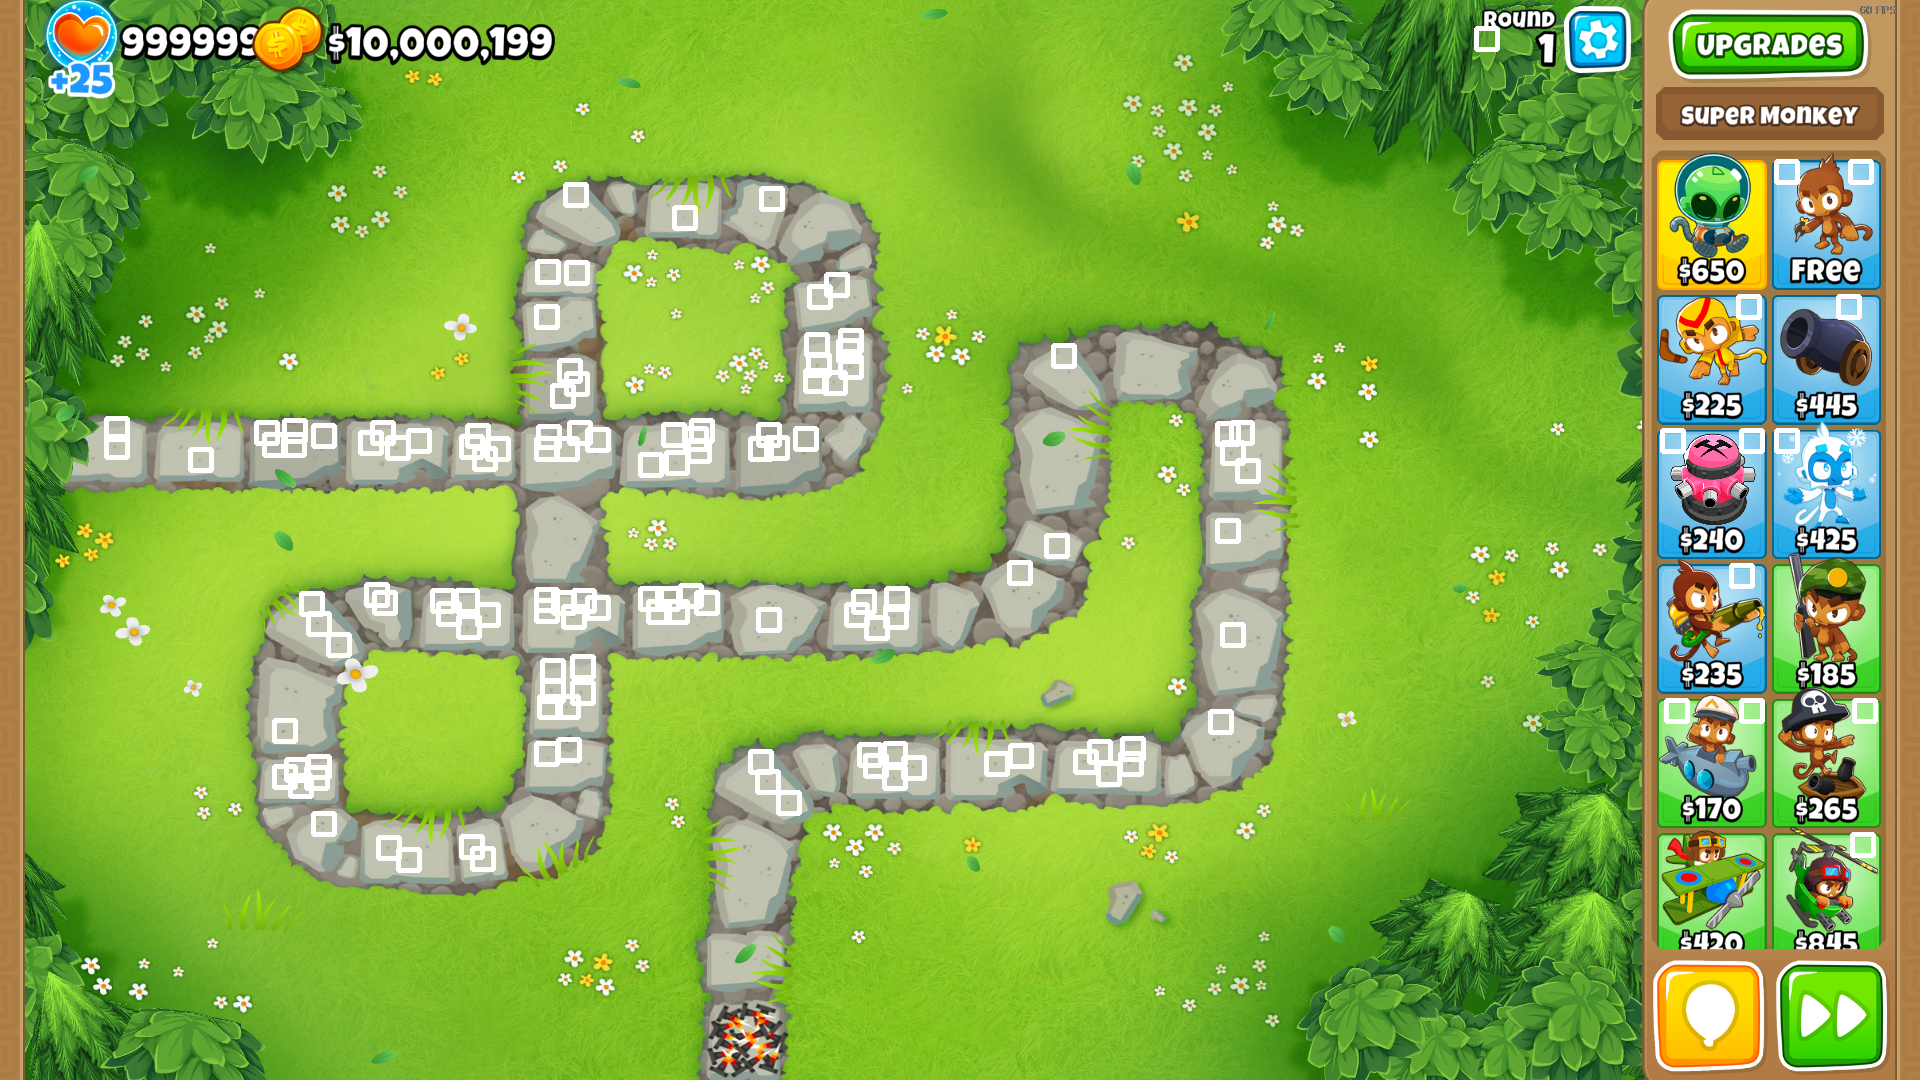
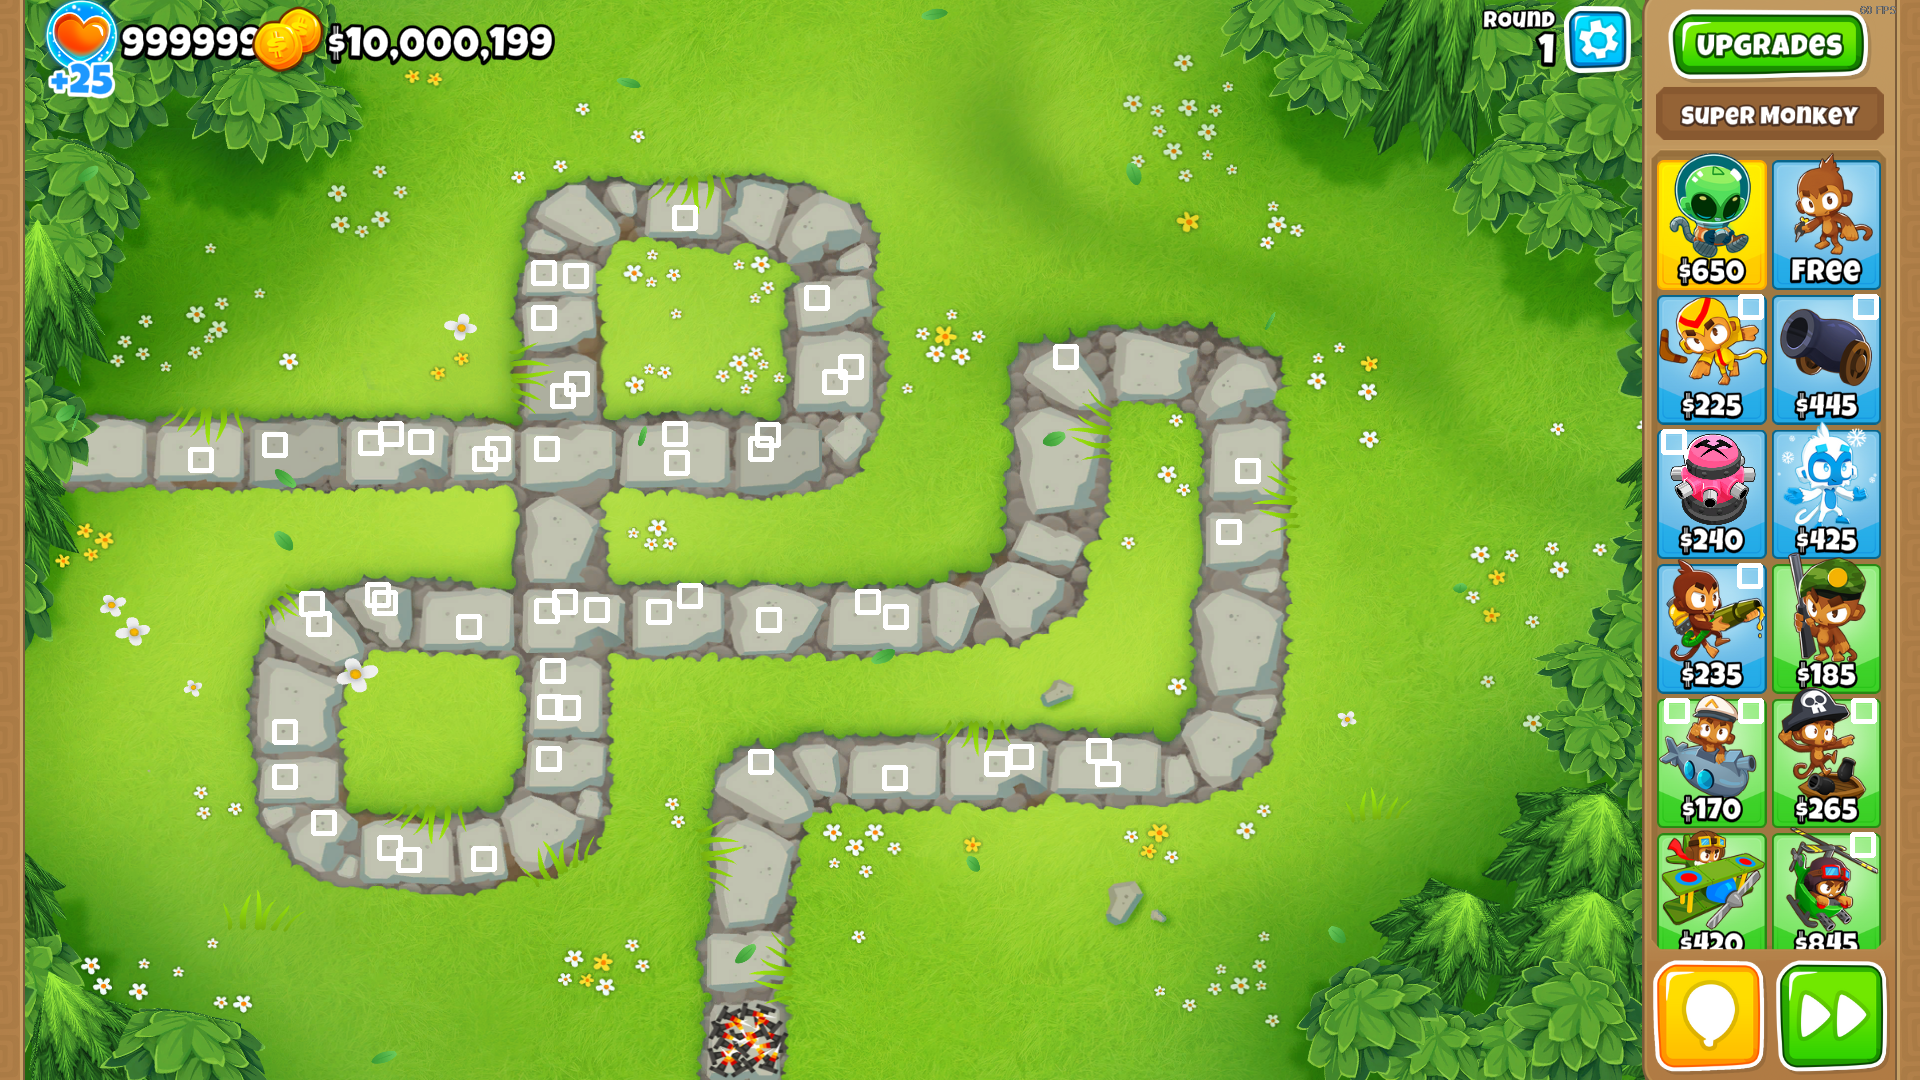
erosao

diff --git a/python/desenvolvimento tcc/imagePreProcessing.py b/python/desenvolvimento tcc/imagePreProcessing.py
@@ -1,0 +1,107 @@
+import cv2 as cv
+from matplotlib import pyplot as plt
+import numpy as np
+
+# img = cv.imread(
+#     './images/maps/beginner/map_monkey_meadow.png')
+
+img = cv.imread('./testImages/Screenshot_1.png')
+
+imgHSV = cv.cvtColor(img, cv.COLOR_BGR2HSV)
+
+H, S, V = cv.split(imgHSV)
+
+cv.imwrite('testImages/image.png', img)
+cv.imwrite("testImages/HSV_image.png", imgHSV)
+cv.imwrite("testImages/H_image.png", H)
+
+
+keys = plt.hist(H.ravel(), 180, [0, 180])[0]
+
+print(len(keys))
+min, max, minLoc, maxLoc = cv.minMaxLoc(keys)
+
+maxPositionArray = np.where(keys == max)
+maxPosition = maxPositionArray[0]
+print(maxPosition)
+
+
+# o que nao se encontra no range fica preto
+# o que está no range fica branco
+inRange = cv.inRange(H, maxPosition-4, maxPosition+4)
+
+cv.imwrite("testImages/in_range_image.png", inRange)
+
+inRangePath = cv.inRange(H, 30, 35)
+
+cv.imwrite("testImages/in_range_path_image.png", inRangePath)
+
+plt.hist(H.ravel(), 180, [0, 180])
+plt.title("histograma H")
+plt.savefig('hist.png')
+
+# testes com filtros da canny
+
+cv.imwrite("testImages/canny.png", cv.Canny(img, 70, 70))
+
+cv.imwrite("testImages/canny_in_range.png", cv.Canny(inRange, 70, 70))
+
+cv.imwrite("testImages/canny_path.png",
+           cv.Canny(cv.inRange(H, 30, 35), 70, 70))
+
+cv.imwrite("testImages/canny_H.png", cv.Canny(H, 70, 70))
+
+
+# testes cp, filtro de cartoon
+
+cv.imwrite("testImages/cartoon.png",
+           cv.edgePreservingFilter(img, flags=1, sigma_s=50, sigma_r=0.4))
+
+cv.imwrite("testImages/cartoon_in_range.png",
+           cv.edgePreservingFilter(inRange, flags=1, sigma_s=50, sigma_r=0.4))
+
+cv.imwrite("testImages/cartoon_path.png",
+           cv.edgePreservingFilter(cv.inRange(H, 30, 35), flags=1, sigma_s=20, sigma_r=0.9))
+
+cv.imwrite("testImages/cartoon_H.png",
+           cv.edgePreservingFilter(H, flags=1, sigma_s=50, sigma_r=0.4))
+
+
+element_str = cv.getStructuringElement(cv.MORPH_RECT, (7, 7))
+
+
+cv.imwrite("testImages/erode.png", cv.erode(img, element_str, iterations=2))
+
+cv.imwrite("testImages/erode_in_range.png",
+           cv.erode(inRange, element_str, iterations=2))
+
+cv.imwrite("testImages/erode_path.png",
+           cv.erode(cv.inRange(H, 30, 35), element_str, iterations=2))
+
+cv.imwrite("testImages/erode_H.png", cv.erode(H, element_str, iterations=2))
+
+
+# ax2 = fig.add_subplot(222)
+# ax2.hist(S.ravel(), 256, [0, 256])
+# plt.title("histograma S")
+
+# ax3 = fig.add_subplot(223)
+# ax3.hist(V.ravel(), 256, [0, 256])
+# plt.title("histograma V")
+
+# ax1 = fig.add_subplot(224)
+# ax1.hist(imgGray.ravel(), 256, [0, 256])
+# plt.title("histograma Cinza")
+
+# plt.waitforbuttonpress()
+
+
+# https://stackoverflow.com/questions/34712144/merge-hsv-channels-under-opencv-3-in-python
+# S.fill(255)
+# V.fill(255)
+# hsv_image = cv.merge([H, S, V])
+
+# out = cv.cvtColor(hsv_image, cv.COLOR_HSV2BGR)
+
+# cv.imshow('example', out)
+# cv.waitKey()

diff --git a/python/desenvolvimento tcc/FindInImage.py b/python/desenvolvimento tcc/FindInImage.py
@@ -7,11 +7,11 @@ visionMonkey = Vision('./images/chao_mapa_bloons.png')
 
 while(True):
 
-    screenshot = mapImage = cv.imread(
+    screenshot = cv.imread(
         './images/maps/beginner/map_monkey_meadow.png', cv.IMREAD_UNCHANGED)
 
     cv.imwrite('retorno_identificacao_fundo.png',
-               visionMonkey.find(screenshot, 0.5, 'rectangles'))
+               visionMonkey.find(screenshot, 0.55, 'rectangles'))
 
     break
     # if cv.waitKey(1) == ord('q'):

diff --git a/python/desenvolvimento tcc/CaptureGameScreen.py b/python/desenvolvimento tcc/CaptureGameScreen.py
@@ -9,7 +9,9 @@ while(True):
 
     screenshot = windowCapture.get_screenshot()
 
-    visionMonkey.find(screenshot, 0.6, 'rectangles')
+    result = visionMonkey.find(screenshot, 0.6, 'rectangles')
+
+    cv.imshow('Matches', result)
 
     if cv.waitKey(1) == ord('q'):
         cv.destroyAllWindows()
